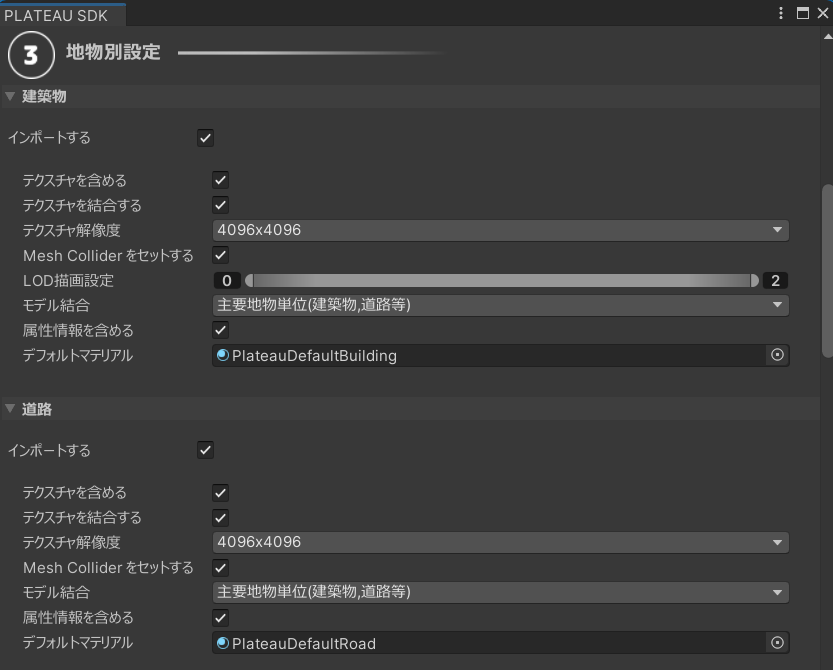
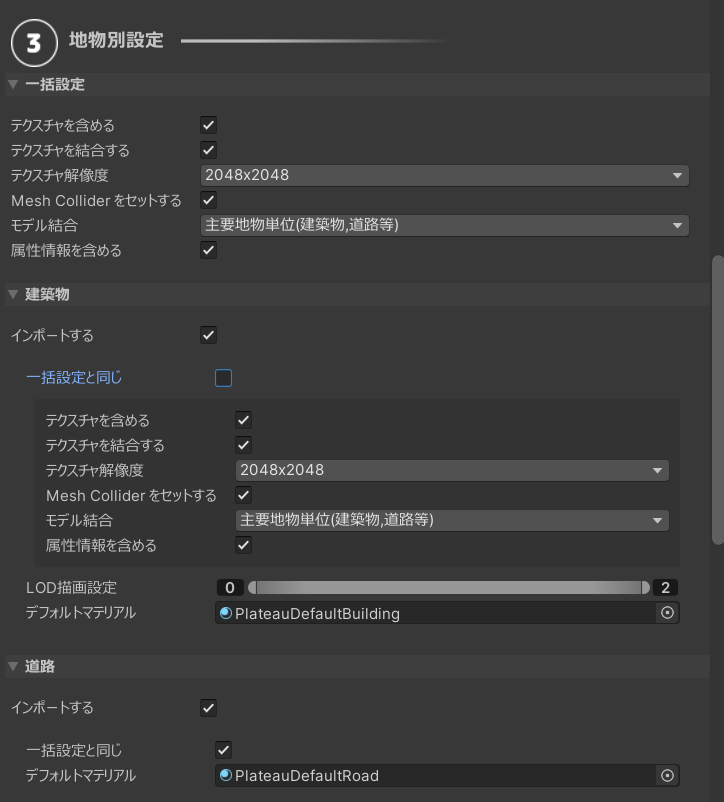
マニュアル追記：インポートの一括設定、メッシュコード検索機能

diff --git a/Documentation~/manual/ImportCityModels.md b/Documentation~/manual/ImportCityModels.md
@@ -48,7 +48,7 @@
 ![](../resources/manual/importCityModels/sceneSaveDialogue.png)
 - シーンビューの表示が切り替わり、範囲選択画面になります。
 ![](../resources/manual/importCityModels/areaSelectWindow.png)  
-- 範囲選択画面の操作方法：
+- 範囲選択画面の操作方法
   - マウスホイールを上下に回してズームアウト、ズームインします。
   - マウスホイールを押し込んだままドラッグしてカメラ移動します。
   - 範囲の選択方法については、画面右下に説明があるとおり、
@@ -56,13 +56,18 @@
     - ドラッグで矩形での選択追加
     - Shift+ドラッグで矩形での選択除外をします。
   - シーンビュー左上の`決定`ボタンを押して範囲を確定します。すると元のシーンに戻ります。
-- 画面のみかた：
+- 画面のみかた
   - 青色の線は利用可能な地域を示します。
   - 地域ごとに利用可能なGML種別と対応LODがアイコン形式で表示されます。
     - 対応LODは色で表現されます。画面左下の凡例の色と対応します。
   - アイコンが多すぎると感じる場合は、画面左下の凡例のチェックを切り替えることでアイコンの表示/非表示をLODごとに切り替えることができます。
   - 地図は国土地理院のサイトから自動でダウンロードされて表示されます。インターネットへの接続が必要です。
   - 区域に表示される番号は、後述の`indexmap.pdf` に記載の番号と同じです。
+- メッシュコード検索機能
+  - シーンビュー左上の`メッシュコード検索`ボタンを押すと、メッシュコードの番号（地図上で青色で表示される数字）で検索できます。
+  - 番号を入力してOKボタンを押すと、その範囲に視界が移動します。
+
+![](../resources/manual/importCityModels/searchByMeshCode.png)
 
 > [!NOTE]  
 > 範囲選択画面では、通常はガイド線が格子状に並び、地図は隙間無く表示されます。  
@@ -82,14 +87,21 @@
 ### 地物別設定
 地物の種類ごとにインポートに関する設定を行います。  
 ![](../resources/manual/importCityModels/importPerPackageConfig.png)  
-**設定項目について:**
+
+#### 設定項目について:
+
+- `一括設定`
+  - 複数の地物タイプをまとめて設定したい場合に編集してください。 
+  - 地物タイプごとの設定で「一括設定と同じ」を選択したときに、この設定が適用されます。
+  - 「一括設定と同じ」のチェックを外したときは、一括設定にかかわらず、個別に設定を上書きするためのメニューが表示されます。
+  - 各設定の意味については後述します。
 - `インポートする`
   - チェックが付いている地物タイプのみインポートします。
 - `テクスチャを含める`
   - テクスチャが存在する地物タイプで表示される設定項目です。  
     チェックが付いていて、かつテクスチャがある場合はそれを含めてインポートします。  
     都市データによってはテクスチャがない場合があり、  
-    その場合はチェックを外した時と同様に真っ白な3Dモデルが出力されます。
+    その場合はチェックを外した時と同様にデフォルトマテリアルが適用されます。
 - `テクスチャを結合する`
   - テクスチャを含める場合、テクスチャを結合するかしないかを設定します。
   - PLATEAUのデータはテクスチャの枚数が多い傾向にあり、結合しないと描画負荷が高くなる傾向にあります。  
